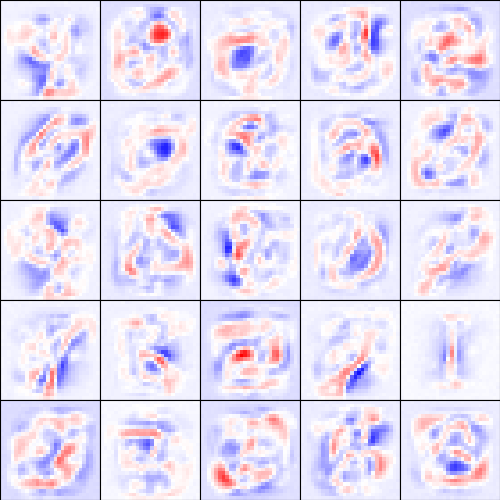
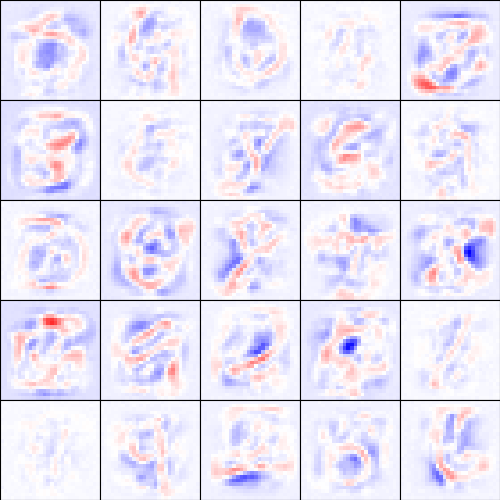
Lab_4 4_1

diff --git a/Lab_4/code/rbm.py b/Lab_4/code/rbm.py
@@ -55,10 +55,10 @@ class RestrictedBoltzmannMachine():
         
         self.momentum = 0.7
 
-        self.print_period = 5000
+        self.print_period = 2
         
         self.rf = { # receptive-fields. Only applicable when visible layer is input data
-            "period" : 5000, # iteration period to visualize
+            "period" : 2, # iteration period to visualize
             "grid" : [5,5], # size of the grid
             "ids" : np.random.randint(0,self.ndim_hidden,25) # pick some random hidden units
             }
@@ -75,10 +75,8 @@ class RestrictedBoltzmannMachine():
           n_iterations: number of iterations of learning (each iteration learns a mini-batch)
         """
 
-        print ("learning CD1")
-        
-        n_samples = visible_trainset.shape[0]
-        x1, x2 = self.get_h_given_v(visible_trainset[:10])
+        print("learning CD1")
+
         for it in range(n_iterations):
             splits = len(visible_trainset)/self.batch_size
             tr_split = np.array_split(visible_trainset, splits)
@@ -87,6 +85,7 @@ class RestrictedBoltzmannMachine():
                 v_k, v_k_sample = self.get_v_given_h(h_0)
                 h_k, h_k_sample = self.get_h_given_v(v_k_sample)
                 self.update_params(v_minibatch, h_0, v_k, h_k)
+
 
 	    # [TODO TASK 4.1] run k=1 alternating Gibbs sampling : v_0 -> h_0 ->  v_1 -> h_1.
             # you may need to use the inference functions 'get_h_given_v' and 'get_v_given_h'.
@@ -103,8 +102,9 @@ class RestrictedBoltzmannMachine():
             # print progress
             
             if it % self.print_period == 0 :
-
-                print ("iteration=%7d recon_loss=%4.4f"%(it, np.linalg.norm(visible_trainset - visible_trainset)))
+                prob, h_0 = self.get_h_given_v(visible_trainset)
+                v_k, v_k_sample = self.get_v_given_h(h_0)
+                print ("iteration=%7d recon_loss=%4.4f"%(it, np.linalg.norm(visible_trainset - v_k_sample)))
         
         return
     
